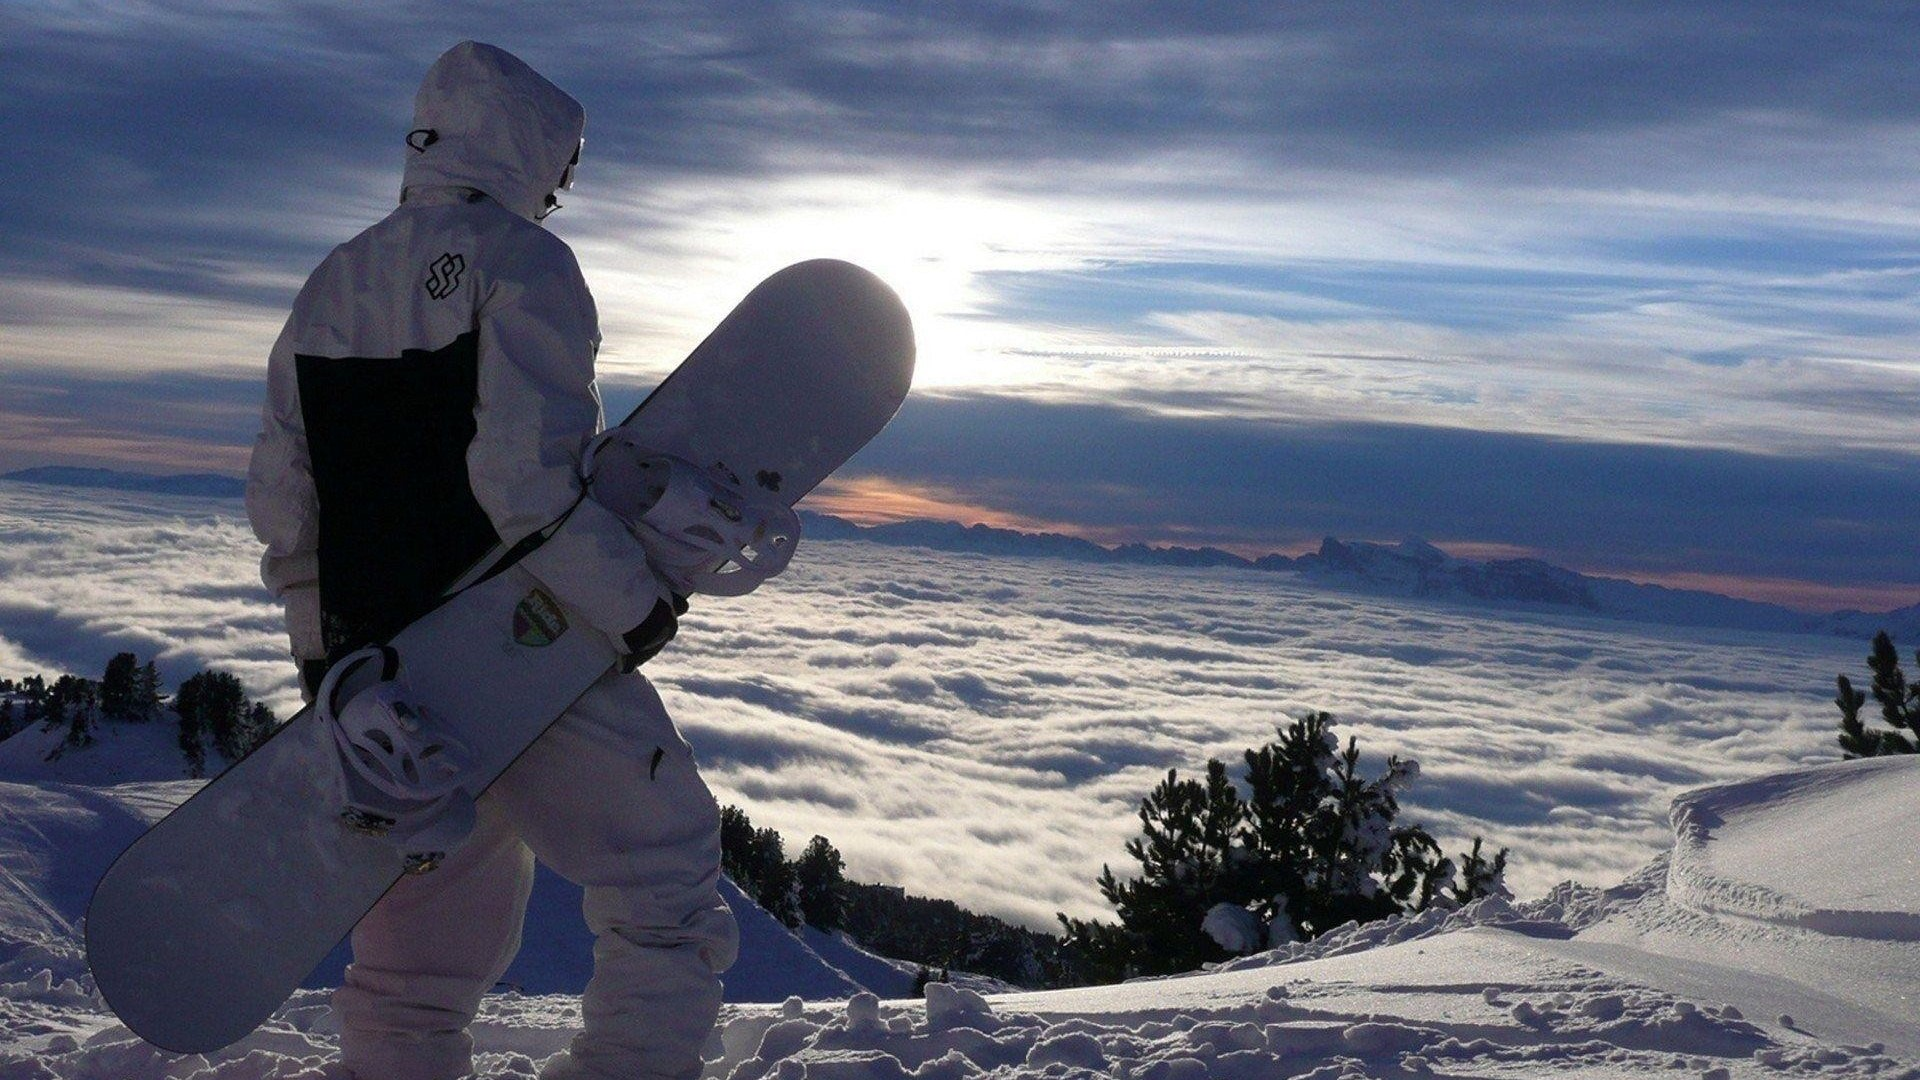
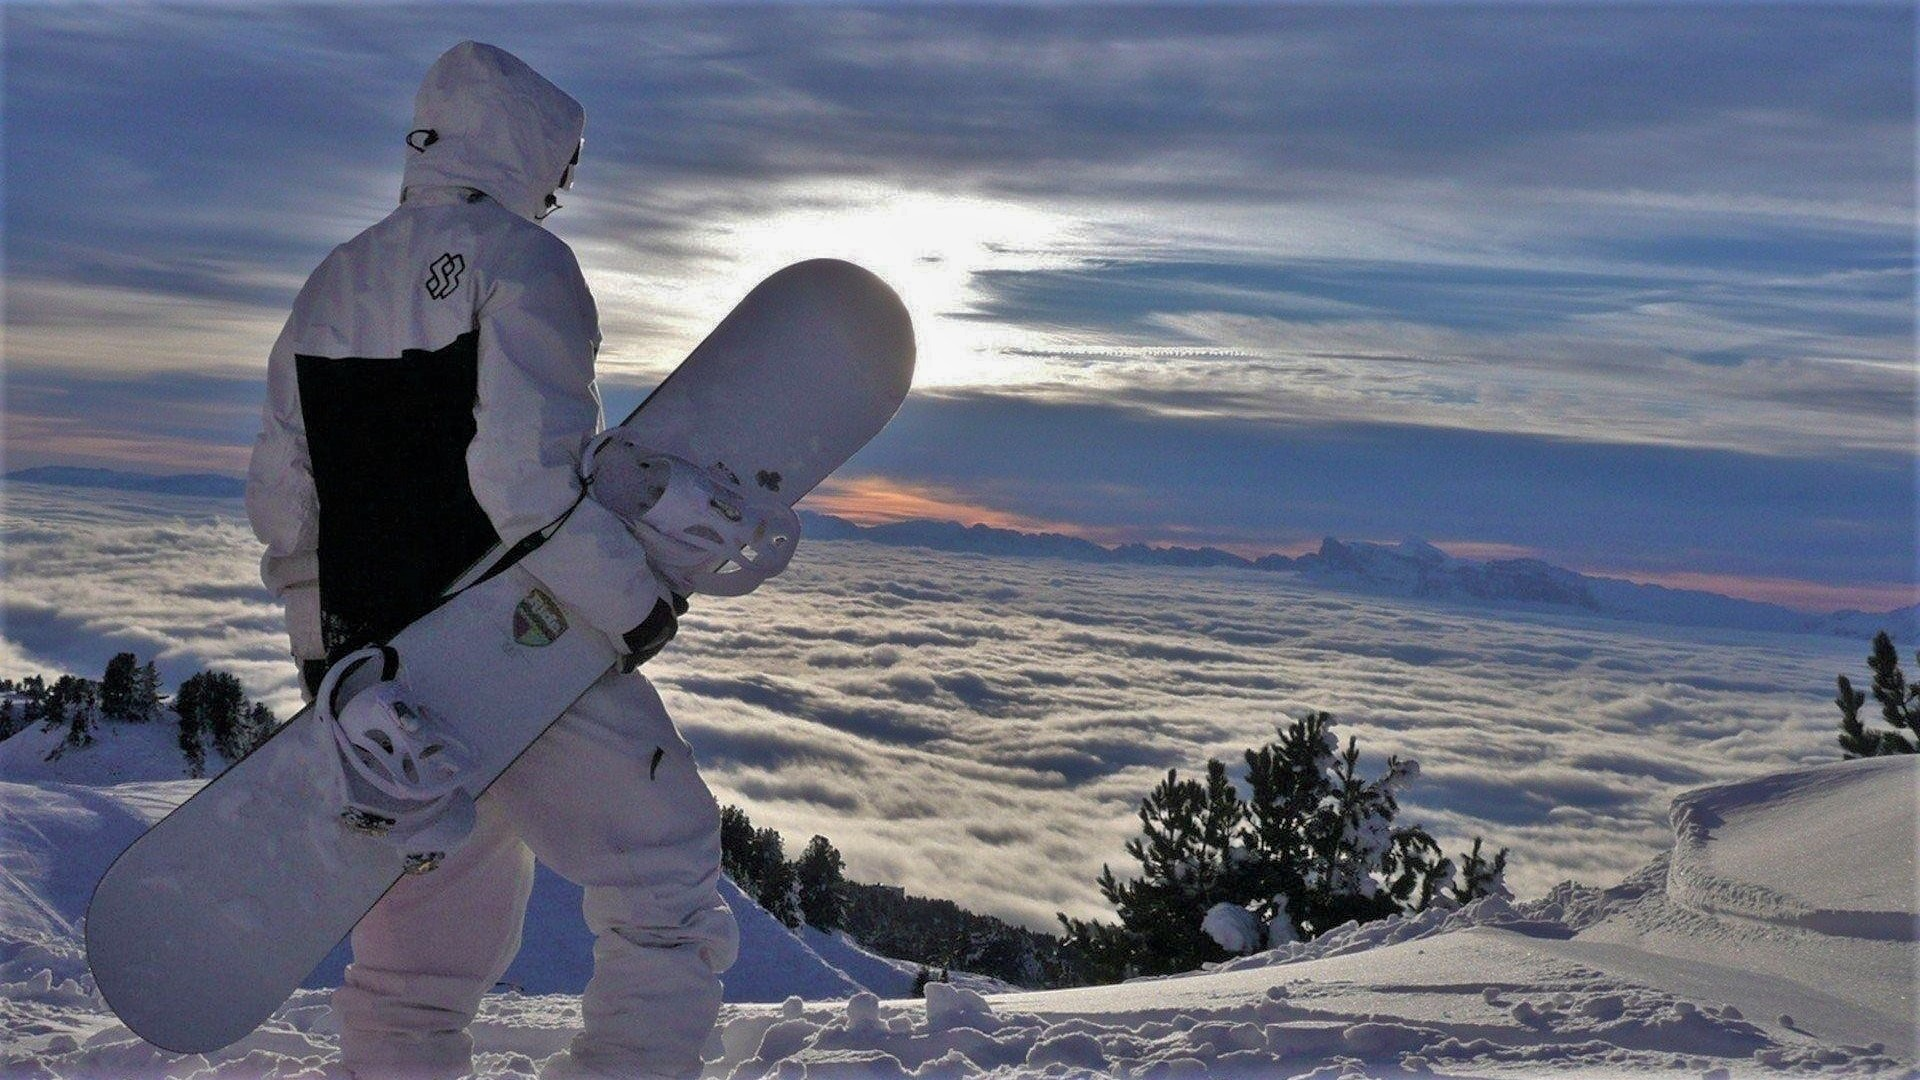
메인 배경 사진 조정

diff --git a/main.html b/main.html
@@ -103,7 +103,7 @@
 						<!-- Gallery -->
 						<header>
 							<h2>매니아 갤러리</h2>
-							<p>19/20 시즌 사진들입니다. <br>다른 사진들이 궁금하다면 더보기 클릭! </p>
+							<p>19/20 시즌 사진들입니다. <br><span id ="gallery_a">다른 사진들이 궁금하다면 더보기 클릭!</span> </p>
 						</header>
 						
 						<section id="galleries">

diff --git a/assets/css/main.css b/assets/css/main.css
@@ -3771,7 +3771,7 @@
 			background-color: #000;
 			height: 100%;
 			left: 0;
-			opacity: 0.4;
+			opacity: 0.45;
 			position: absolute;
 			top: 0;
 			width: 100%;

diff --git a/assets/css/main2.css b/assets/css/main2.css
@@ -95,6 +95,11 @@
     animation: fadein 0.7s;
 }
 
+#gallery_a{
+    font-size: 14.5px;
+}
+
+
 /* footer */
 #footer{
     width: auto;
